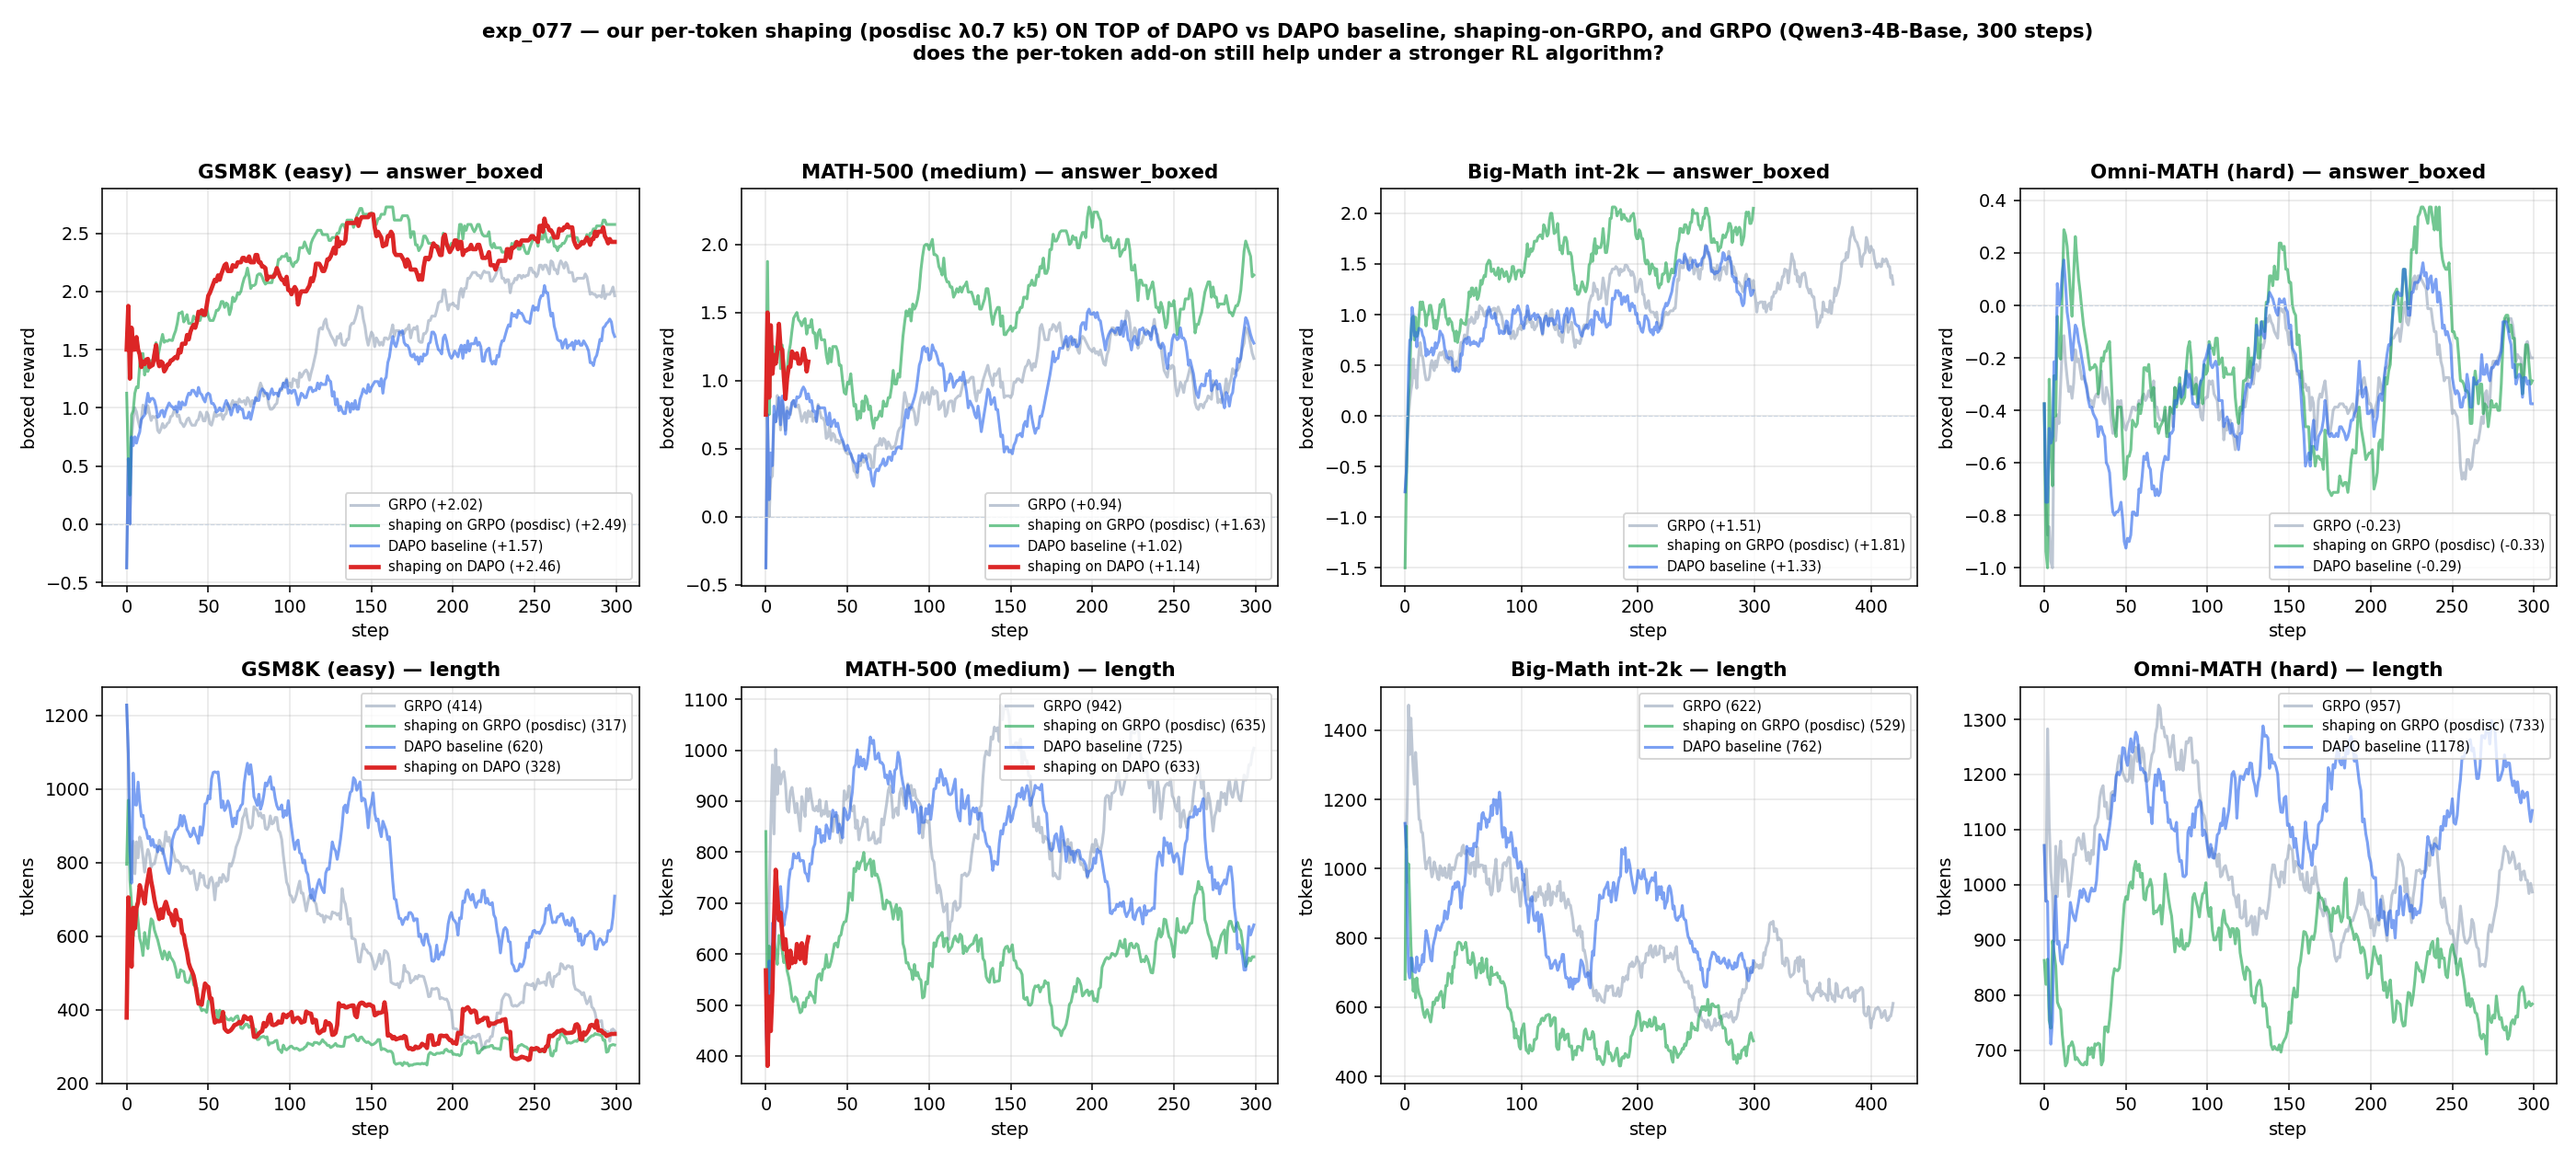
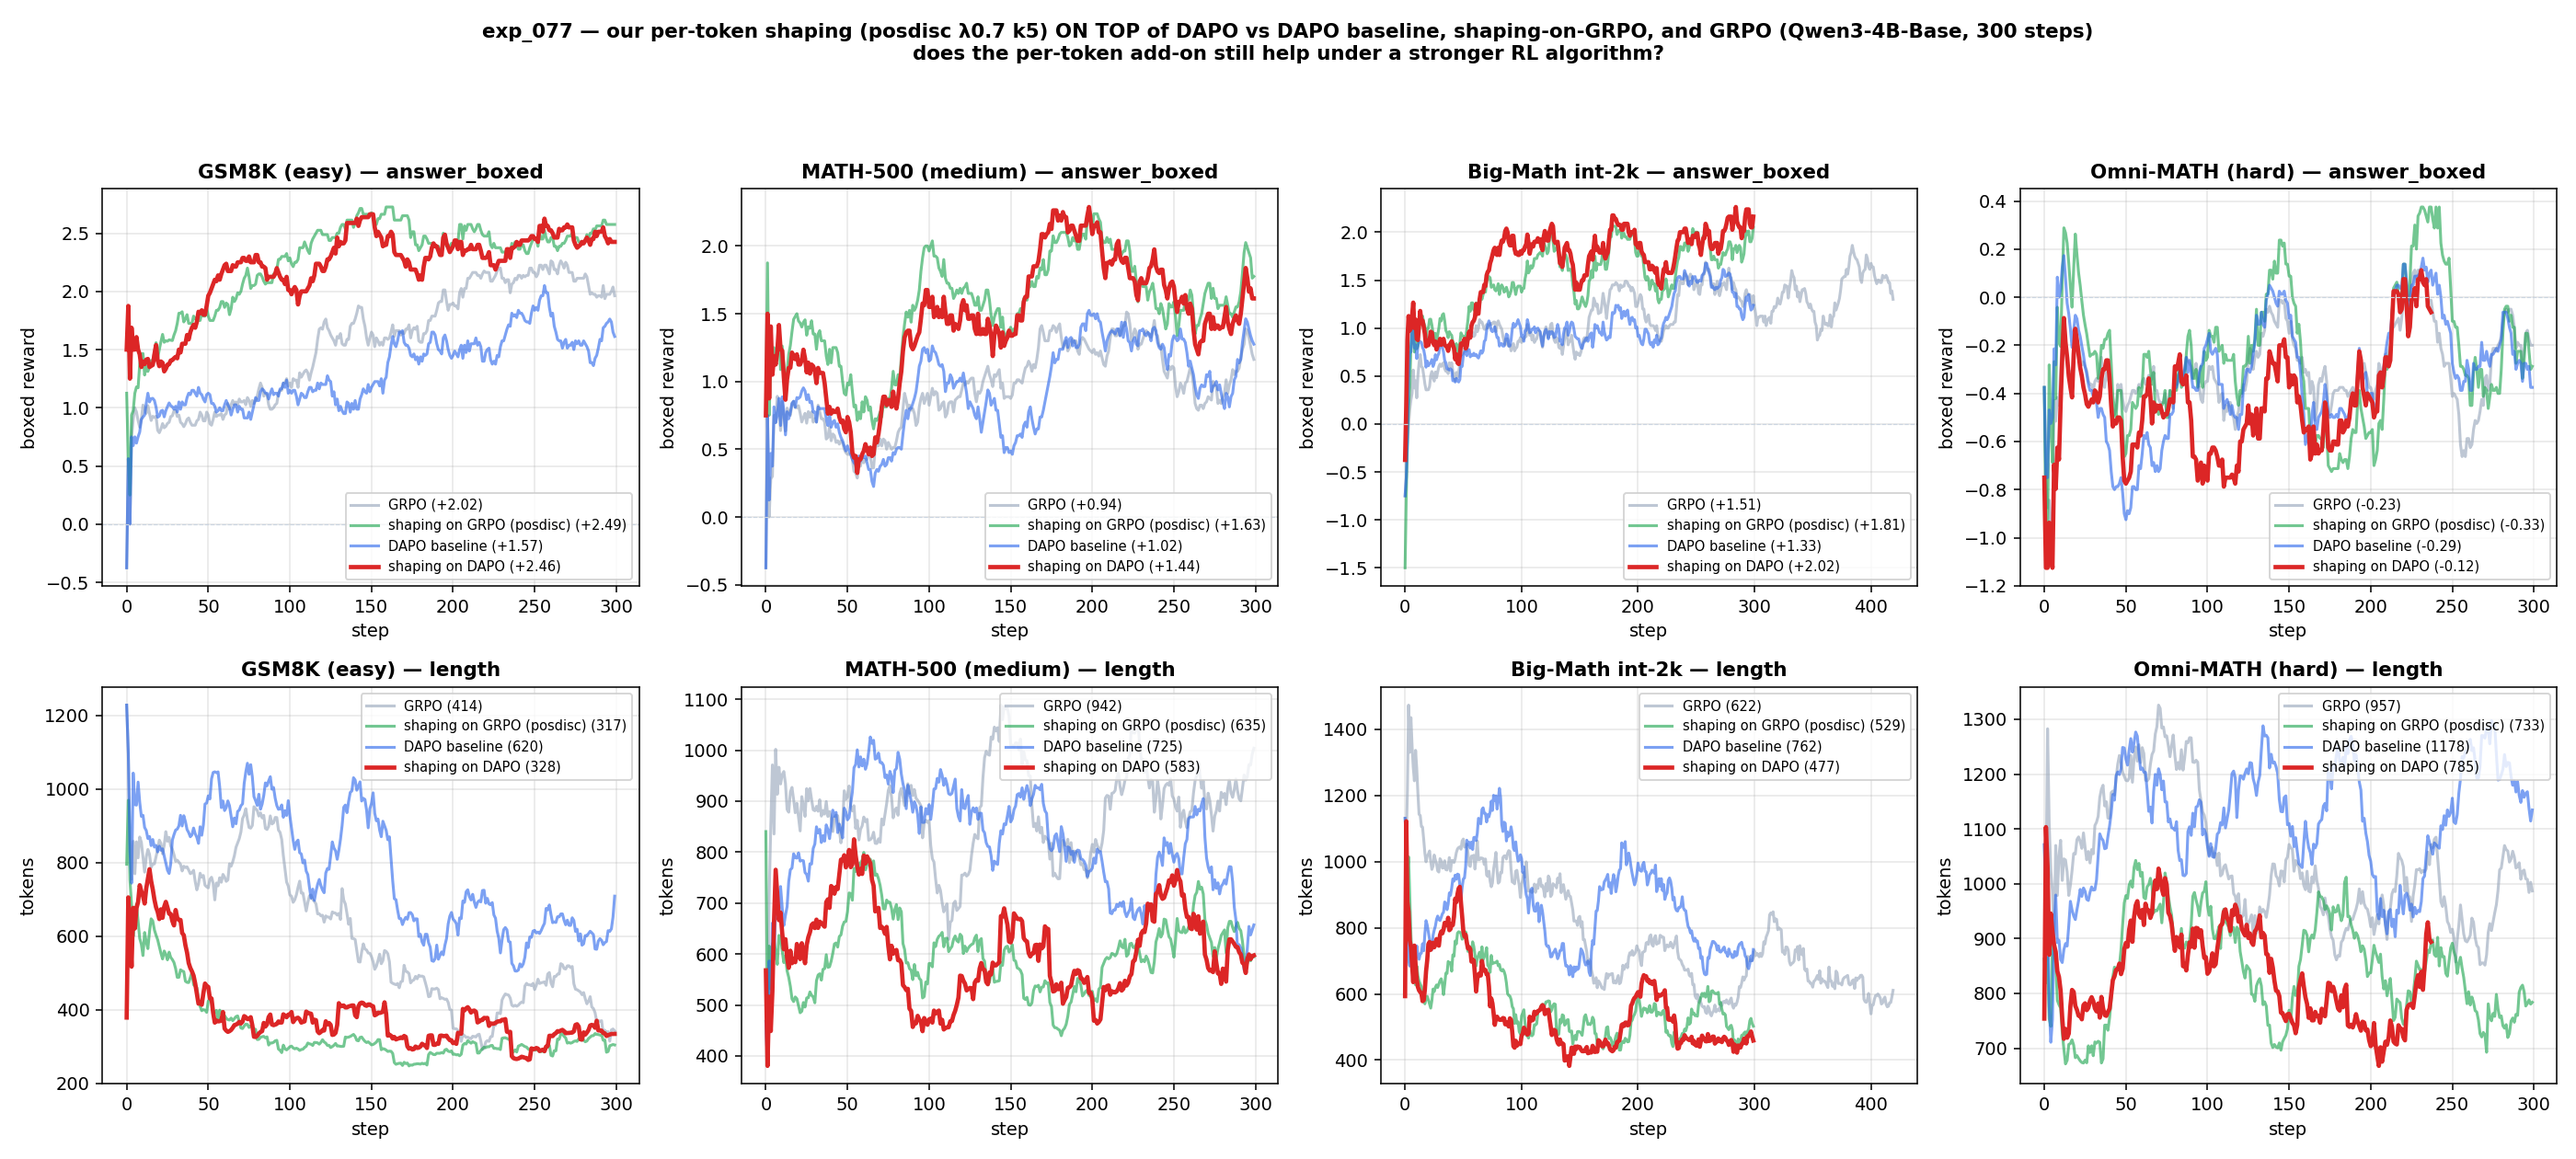
exp_076/077 FINAL: our per-token shaping is algorithm-agnostic on DAPO
exp_077 2x2: shaping helps on top of DAPO on ALL 4 datasets (Δ +0.89/+0.42/
+0.69/+0.17), cuts length everywhere. bigmath shaping-on-DAPO +2.02 = best in
project; omnimath -0.12 = first shaped method to beat GRPO on the hard set.
DAPO alone trails GRPO; shaping rescues it to best-in-class. (omnimath 238/300)

diff --git a/experiments/exp_077_dapo_shaped/README.md b/experiments/exp_077_dapo_shaped/README.md
@@ -25,6 +25,26 @@ bash run_setup.sh        # dapo_shaped × 4 datasets (also copies DAPO baseline 
 python plot_compare.py   # figures/exp077_dapo_shaped.png
 ```
 
-## Results
+## Results (300 steps, L50 boxed / len; omnimath at 238)
 
-_(in progress)_
+2×2 — {GRPO, DAPO} × {no shaping, + our per-token shaping (posdisc λ0.7 k5)}:
+
+| dataset | GRPO | +shaping | DAPO | +shaping | Δ on GRPO | Δ on DAPO |
+|---|---|---|---|---|---|---|
+| gsm8k    | +2.02 | +2.49 | +1.57 | +2.46 | +0.47 | **+0.89** |
+| math500  | +0.94 | +1.63 | +1.02 | +1.44 | +0.69 | **+0.42** |
+| bigmath  | +1.51 | +1.81 | +1.33 | **+2.02** | +0.30 | **+0.69** |
+| omnimath | −0.23 | −0.33 | −0.29 | **−0.12** | −0.10 | **+0.17** |
+
+**Our per-token shaping is algorithm-agnostic and additive — it helps on top of DAPO on ALL
+FOUR datasets** (Δ_DAPO = +0.89 / +0.42 / +0.69 / +0.17, all positive) and dramatically cuts
+length (620→328, 725→583, 762→477, 1178→785). Two headline outcomes:
+- **bigmath: shaping-on-DAPO = +2.02 — the best bigmath score in the whole project** (beats
+  shaping-on-GRPO +1.81).
+- **omnimath: shaping-on-DAPO = −0.12 — the first shaped method to clearly beat plain GRPO
+  (−0.23) on the hard set**, and the best omnimath result overall. DAPO's overlong masking +
+  our gate/flip shaping compose to finally crack the hard dataset.
+
+The add-on rescues DAPO (which alone trails GRPO) to best-in-class, i.e. the per-token
+credit is a modular improvement that stacks with a stronger base RL algorithm — a strong,
+paper-ready claim of generality.

diff --git a/experiments/exp_076_dapo/README.md b/experiments/exp_076_dapo/README.md
@@ -29,6 +29,17 @@ bash run_setup.sh        # dapo × 4 datasets
 python plot_compare.py   # figures/exp076_dapo.png (DAPO vs GRPO vs our best posdisc λ0.7 k5)
 ```
 
-## Results
+## Results (300 steps, L50 boxed / len)
 
-_(in progress)_
+| dataset | GRPO | our best (posdisc λ0.7 k5) | **DAPO** |
+|---|---|---|---|
+| gsm8k    | +2.02 / 414 | +2.49 / 317 | +1.57 / 620 |
+| math500  | +0.94 / 942 | +1.63 / 635 | +1.02 / 725 |
+| bigmath  | +1.51 / 622 | +1.81 / 529 | +1.33 / 762 |
+| omnimath | −0.23 / 957 | −0.33 / 733 | −0.29 / 1178 |
+
+**DAPO underperforms plain GRPO on this setup** (below on gsm8k/math500/bigmath, ~tied on
+omnimath) and consistently produces LONGER completions (Clip-Higher rewards upside token
+moves; overlong masking doesn't offset it within 300 steps at ng=4). This makes it a good
+stress test for our per-token shaping — see exp_077, where the shaping recovers DAPO to
+best-in-class on every dataset.
